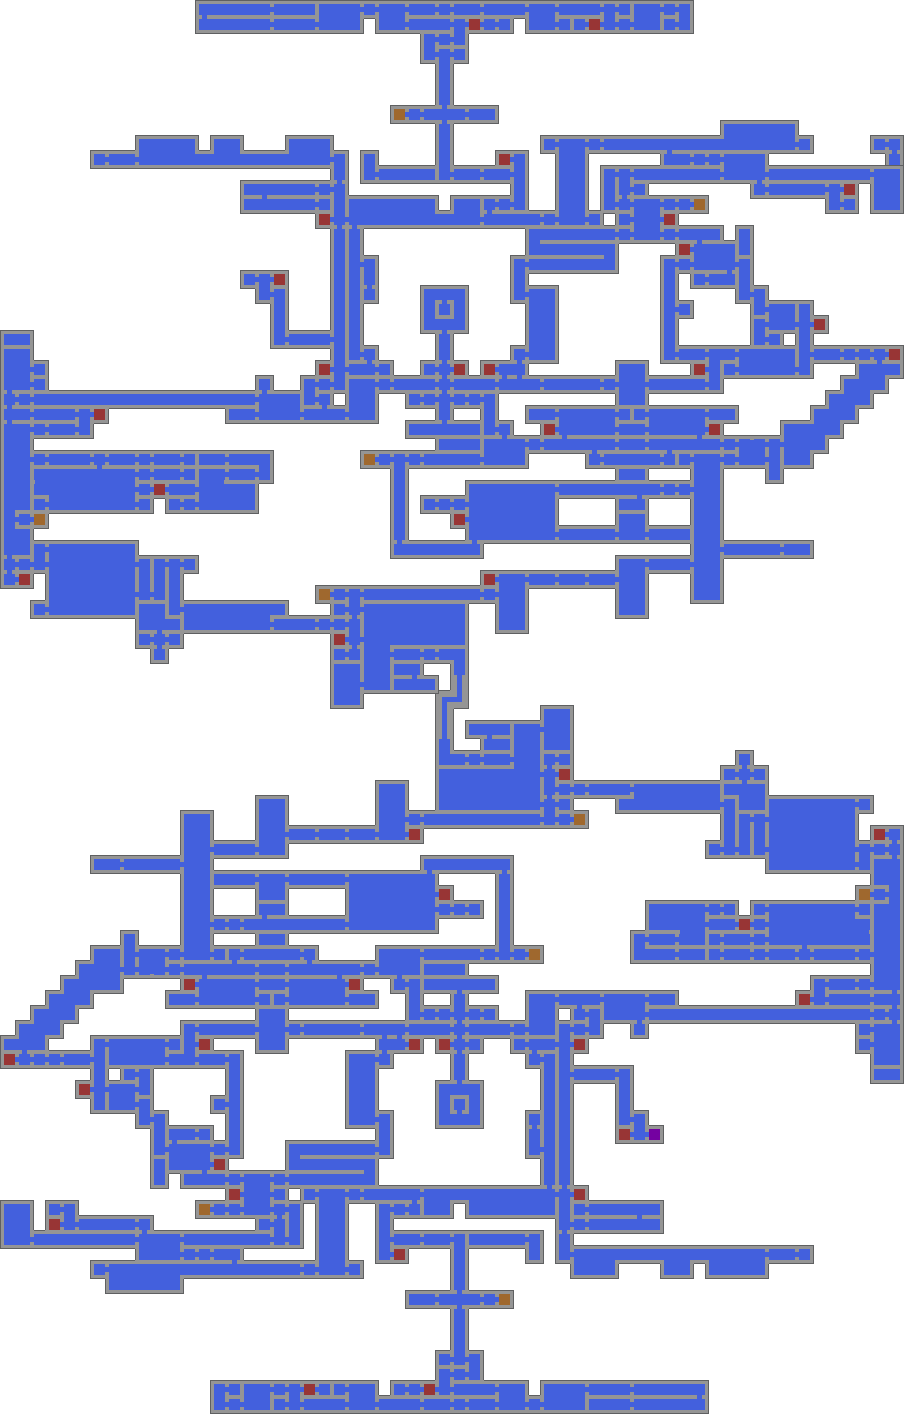
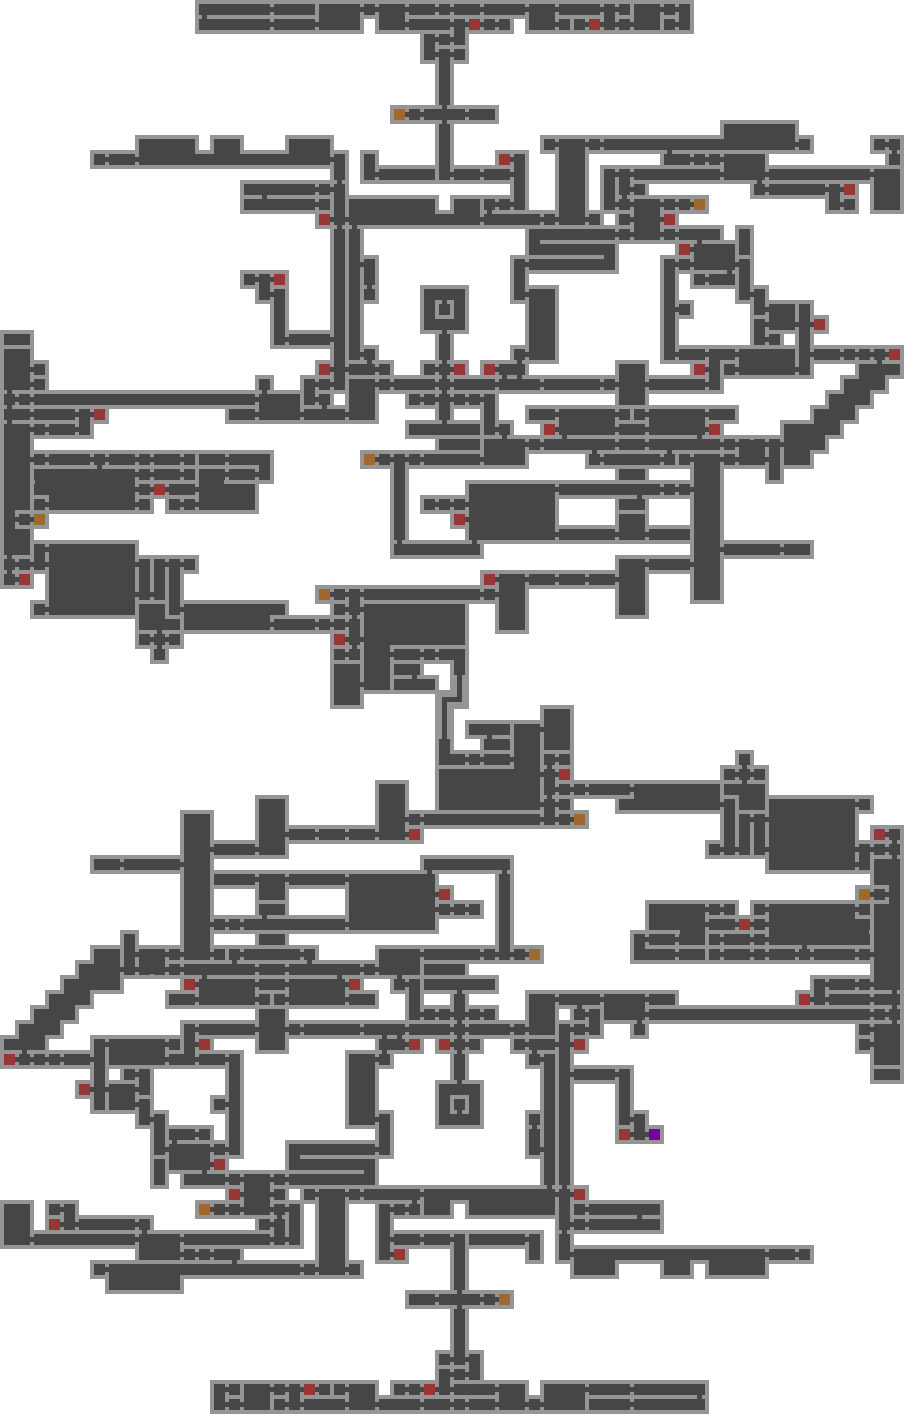
refactoring, new color scheme, offset paths, added warp animation

Changed region(s): [[0.0, 0.0, 1.0, 1.0]]

diff --git a/main.js b/main.js
@@ -3,21 +3,20 @@ const height = 1414;
 const defaultPlaybackSpeed = 0.04;
 const validExtension = "sotnr";
 
-var scrollContainer = document.getElementById('scroll-container');
-var replayFileA = $('#replay-file-A');
-var replayFileB = $('#replay-file-B');
-var uploadBox = $('#upload-box');
-
-var playButton = $('#play-button');
-var rewindButton = $("#rewind-button");
-var progressBar = $('#progress-bar');
-var speedButton = $('#speed-button');
-var speedButtonText = $('#speed-button-text');
-var speedSelectPanel = $('#speed-select-panel');
-var speedSelectHalf = $('#speed-select-half');
-var speedSelectNormal = $('#speed-select-normal');
-var speedSelectDouble = $('#speed-select-double');
-var speedSelectTripple = $('#speed-select-tripple');
+const scrollContainer = document.getElementById('scroll-container');
+const replayFileA = $('#replay-file-A');
+const replayFileB = $('#replay-file-B');
+const uploadBox = $('#upload-box');
+const playButton = $('#play-button');
+const rewindButton = $("#rewind-button");
+const progressBar = $('#progress-bar');
+const speedButton = $('#speed-button');
+const speedButtonText = $('#speed-button-text');
+const speedSelectPanel = $('#speed-select-panel');
+const speedSelectHalf = $('#speed-select-half');
+const speedSelectNormal = $('#speed-select-normal');
+const speedSelectDouble = $('#speed-select-double');
+const speedSelectTripple = $('#speed-select-tripple');
 
 var stage = new Konva.Stage({
     container: 'main-map',
@@ -30,16 +29,20 @@ var playerA = {
         x: 8,
         y: 1240,
         radius: 5,
-        fill: '#e79544',
-        stroke: 'black',
+        fill: '#fd5123',
+        stroke: 'white',
         strokeWidth: 2
     }),
     trail: new Konva.Path({
         x: 0,
         y: 0,
-        stroke: '#e79544',
+        stroke: '#de542f',
         strokeWidth: 4,
-        opacity: 1
+        opacity: 0.8,
+        shadowColor: 'black',
+        shadowBlur: 0,
+        shadowOffset: { x: 1, y: 1 },
+        shadowOpacity: 0.6
     }),
     replay: null,
     replaySvgData: []
@@ -50,16 +53,16 @@ var playerB = {
         x: 8,
         y: 1240,
         radius: 5,
-        fill: '#27ba5b',
-        stroke: '#111111',
+        fill: '#345fff',
+        stroke: 'white',
         strokeWidth: 2
     }),
     trail: new Konva.Path({
         x: 0,
         y: 0,
-        stroke: '#27ba5b',
+        stroke: '#0b1291',
         strokeWidth: 4,
-        opacity: 1
+        opacity: 0.8
     }),
     replay: null,
     replaySvgData: []
@@ -75,6 +78,25 @@ foreground.add(playerA.indicator);
 stage.add(background);
 stage.add(relicsLayer);
 stage.add(foreground);
+
+var tweents = {
+    warpOutPlayerA: new Konva.Tween({
+        node: playerA.indicator,
+        duration: 0.4,
+        fill: 'white',
+        opacity: 0.3,
+        scaleX: 2,
+    }),
+    warpOutPlayerB: new Konva.Tween({
+        node: playerB.indicator,
+        duration: 0.4,
+        fill: 'white',
+        opacity: 0.3,
+        scaleX: 2
+    }),
+    isWarpingPlayerB: false,
+    isWarpingPlayerA: false
+};
 
 var relics = {
     SoulOfBat: false,
@@ -137,6 +159,7 @@ var playbackSpeed = 1;
 var animationIndex = 0;
 var oldIndex = 0;
 var castle = 1;
+var animationEnded = false;
 
 function getManhattanDistance(pointA, pointB) {
     let xdifference = Math.abs(pointA.x - pointB.x);
@@ -150,9 +173,15 @@ function rewind() {
     oldIndex = 0;
     castle = 1;
     playerA.trail.data(playerA.replaySvgData[0]);
-    animation = null;
     playerA.indicator.x(playerA.replay[0].x);
     playerA.indicator.y(playerA.replay[0].y);
+
+    if (playerB.replay) {
+        playerB.trail.data(playerB.replaySvgData[0]);
+        playerB.indicator.x(playerB.replay[0].x);
+        playerB.indicator.y(playerB.replay[0].y);
+    }
+
     foreground.batchDraw();
 }
 
@@ -161,16 +190,35 @@ function seek() {
         return;
     }
     let progress = progressBar.val();
+    let index;
 
-    let index = Math.round(playerA.replay.length * (progress / 100));
+    if (playerB.replay && playerB.replay.length > playerA.replay.length) {
+        index = Math.round((playerB.replay.length - 1) * (progress / 100));
+    } else {
+        index = Math.round((playerA.replay.length - 1) * (progress / 100));
+    }
 
     animationIndex = index;
     oldIndex = index;
+    let indexA = index;
+    if (indexA > playerA.replay.length - 1) {
+        indexA = playerA.replay.length - 1;
+    }
 
-    playerA.indicator.x(playerA.replay[index].x);
-    playerA.indicator.y(playerA.replay[index].y);
+    playerA.indicator.x(playerA.replay[indexA].x);
+    playerA.indicator.y(playerA.replay[indexA].y);
 
-    playerA.trail.data(playerA.replaySvgData[index]);
+    playerA.trail.data(playerA.replaySvgData[indexA]);
+
+    if (playerB.replay) {
+        if (index > playerB.replay.length - 1) {
+            index = playerB.replay.length - 1;
+        }
+        playerB.indicator.x(playerB.replay[index].x);
+        playerB.indicator.y(playerB.replay[index].y);
+
+        playerB.trail.data(playerB.replaySvgData[index]);
+    }
 
     foreground.batchDraw();
 }
@@ -267,7 +315,7 @@ function getRelicLocations(replayData) {
     relicsLayer.batchDraw();
 }
 
-function generateSvgPathData(replayData, pathData) {
+function generateSvgPathData(replayData, pathData, offset) {
     let startNode = 'M' + replayData[0].x + ',' + replayData[0].y + ' ';
     pathData.push(startNode);
     for (let i = 1; i < replayData.length; i++) {
@@ -279,7 +327,7 @@ function generateSvgPathData(replayData, pathData) {
             node += 'L';
         }
 
-        node += replayData[i].x + ',' + replayData[i].y + ' ';
+        node += (replayData[i].x + offset.x) + ',' + (replayData[i].y + offset.y) + ' ';
         pathData.push(node);
     }
 }
@@ -304,8 +352,30 @@ function startPlayback() {
         }
 
         let animationSpeed = playbackSpeed * defaultPlaybackSpeed;
-        if (playerA.replay[indexA].warp || (playerB.replay && playerB.replay[indexB].warp)) {
-            animationSpeed = defaultPlaybackSpeed / 5;
+
+        if ((indexA < playerA.replay.length - 1 && playerA.replay[indexA + 1].warp) || playerA.replay[indexA].warp) {
+            animationSpeed = defaultPlaybackSpeed / 4;
+
+            if (!tweents.isWarpingPlayerA) {
+                tweents.warpOutPlayerA.play();
+                tweents.isWarpingPlayerA = true;
+            }
+
+        } else if (tweents.isWarpingPlayerA) {
+            tweents.warpOutPlayerA.reverse();
+            tweents.isWarpingPlayerA = false;
+        }
+
+        if ((playerB.replay && indexB < playerB.replay.length - 1 && playerB.replay[indexB + 1].warp) ||
+            (playerB.replay && playerB.replay[indexB].warp)) {
+            animationSpeed = defaultPlaybackSpeed / 4;
+            if (!tweents.isWarpingPlayerB) {
+                tweents.warpOutPlayerB.play();
+                tweents.isWarpingPlayerB = true;
+            }
+        } else if (tweents.isWarpingPlayerB) {
+            tweents.warpOutPlayerB.reverse();
+            tweents.isWarpingPlayerB = false;
         }
 
         animationIndex += animationSpeed;
@@ -345,7 +415,11 @@ function startPlayback() {
         if (index > oldIndex) {
             playerA.trail.data(playerA.replaySvgData[indexA - 1]);
             oldIndex = index;
-            progressBar.val(Math.round((indexA / playerA.replay.length) * 100));
+            if (playerB.replay && playerB.replay.length > playerA.replay.length) {
+                progressBar.val(Math.round((indexB / playerB.replay.length) * 100));
+            } else {
+                progressBar.val(Math.round((indexA / playerA.replay.length) * 100));
+            }
         }
 
         setRelics(indexA);
@@ -354,6 +428,7 @@ function startPlayback() {
         if ((playerB.replay && playerB.replay.length > playerA.replay.length && index == playerB.replay.length - 1) ||
             (playerB.replay && playerA.replay.length > playerB.replay.length && index == playerA.replay.length - 1) ||
             (!playerB.replay && (index == playerA.replay.length - 1))) {
+            animationEnded = true;
             animation.stop();
             playButton.removeClass('pause-icon');
             playButton.addClass('play-icon');
@@ -412,6 +487,10 @@ function play() {
         if (animation.isRunning()) {
             pause();
         } else {
+            if (animationEnded) {
+                animationEnded = false;
+                rewind();
+            }
             animation.start();
             playButton.removeClass('play-icon');
             playButton.addClass('pause-icon');
@@ -455,7 +534,7 @@ replayFileA.change(function() {
         playerA.replay = null;
         playerA.replay = getReplayData(replayRows);
         playerA.replaySvgData = [];
-        generateSvgPathData(playerA.replay, playerA.replaySvgData);
+        generateSvgPathData(playerA.replay, playerA.replaySvgData, { x: 0, y: -2 });
         rewind();
     });
     reader.readAsText(loadedReplay);
@@ -469,7 +548,7 @@ replayFileB.change(function() {
         playerB.replay = null;
         playerB.replay = getReplayData(replayRows);
         playerB.replaySvgData = [];
-        generateSvgPathData(playerB.replay, playerB.replaySvgData);
+        generateSvgPathData(playerB.replay, playerB.replaySvgData, { x: 3, y: 1 });
         rewind();
     });
     reader.readAsText(loadedReplay);

diff --git a/style.css b/style.css
@@ -18,8 +18,8 @@
     --playstation-triangle: #50f850;
     --playstation-grey-light: #b0afb2;
     --playstation-grey-dark: #414143;
-    --player-1: #e79544;
-    --player-2: #27ba5b;
+    --player-1: #fd5123;
+    --player-2: #345fff;
 }
 
 body {
